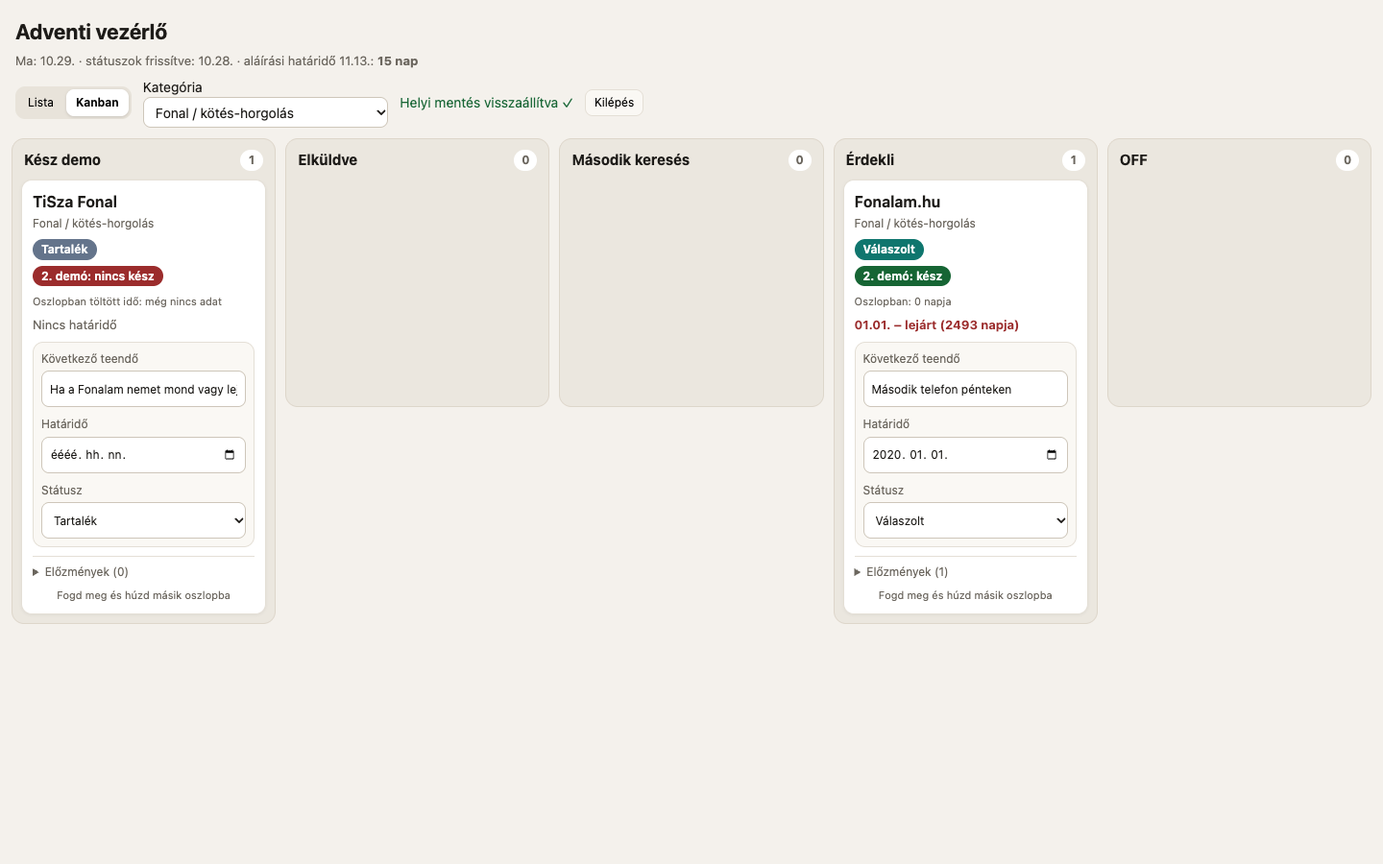
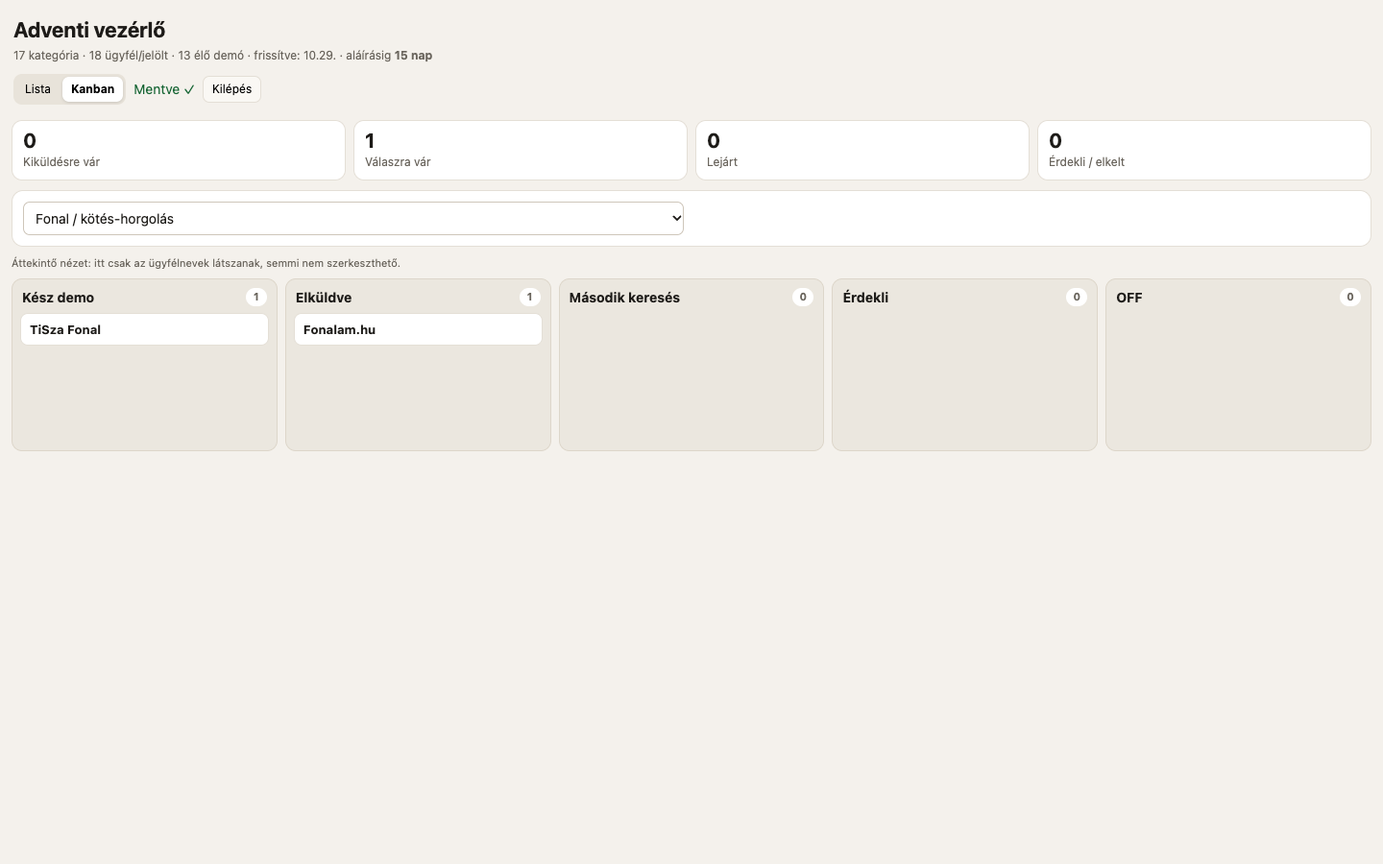
vezerlo: teljes adatlista es kompakt nezet

diff --git a/vezerlo/index.html b/vezerlo/index.html
@@ -6,100 +6,60 @@
 <meta name="robots" content="noindex,nofollow,noarchive">
 <title>Adventi vezérlő</title>
 <style>
-:root{--bg:#f4f1ec;--card:#fff;--ink:#1d1b18;--mut:#6b665e;--line:#e4dfd6;--accent:#9b2c2c;--ok:#166534;--warn:#b45309}
-*{box-sizing:border-box}
-body{margin:0;font:15px/1.45 -apple-system,BlinkMacSystemFont,"Segoe UI",Roboto,sans-serif;background:var(--bg);color:var(--ink)}
-header{padding:18px 16px 8px;max-width:1440px;margin:auto}h1{margin:0;font-size:22px}.meta{color:var(--mut);font-size:13px;margin-top:4px}
-main{max-width:1440px;margin:auto;padding:0 12px 40px}.box{background:var(--card);border:1px solid var(--line);border-radius:14px;padding:14px;margin:12px 0}
-.todo h2,.cat h2{margin:0 0 8px;font-size:16px}.todo ul{margin:0;padding-left:18px}.todo li{margin:4px 0}.urg{color:var(--accent);font-weight:650}
-.cat-head{display:flex;justify-content:space-between;align-items:baseline;gap:8px;flex-wrap:wrap}.sor{color:var(--mut);font-size:13px;margin:2px 0 8px}
-.shop{border-top:1px solid var(--line);padding:13px 0}.shop:first-of-type{border-top:0}.row{display:flex;gap:8px;align-items:center;flex-wrap:wrap}.name{font-weight:650;font-size:16px}
-.badge,.audit{display:inline-block;padding:2px 9px;border-radius:999px;color:#fff;font-size:12px;font-weight:650;white-space:nowrap}.audit.ok{background:var(--ok)}.audit.no{background:var(--accent)}
-.dl{display:grid;grid-template-columns:auto 1fr;gap:3px 10px;font-size:14px;margin-top:7px}.dl dt{color:var(--mut)}.dl dd{margin:0;overflow-wrap:anywhere}a{color:#1f4e8c}
-.controls{display:grid;grid-template-columns:minmax(155px,1fr) minmax(150px,1fr) minmax(180px,1.25fr);gap:9px;margin-top:11px;padding:10px;background:#faf8f4;border:1px solid var(--line);border-radius:11px}
-.control{display:flex;flex-direction:column;gap:4px;font-size:12px;color:var(--mut)}.check{flex-direction:row;align-items:center;color:var(--ink);font-size:14px;padding-top:21px}.check input{width:18px;height:18px;margin:0}
-input[type=date],input[type=text],select{width:100%;font:inherit;color:var(--ink);padding:7px 8px;border:1px solid #cec6ba;border-radius:8px;background:#fff;min-height:38px}
-button{font:inherit;font-size:12px;padding:4px 9px;border:1px solid var(--line);border-radius:8px;background:#faf8f4;cursor:pointer}.tools{display:flex;gap:12px;align-items:center;font-size:14px;margin-top:8px;flex-wrap:wrap}.view-switch{display:flex;gap:3px;padding:3px;background:#e8e3da;border-radius:10px}.view-switch button{border:0;background:transparent;padding:5px 10px}.view-switch button.active{background:#fff;box-shadow:0 1px 3px #0002;font-weight:650}
-.done{opacity:.58}.err{color:var(--accent)}#save{min-height:20px}.saving{color:var(--warn)}.saved{color:var(--ok)}
-.recovery{max-width:1440px;margin:8px auto 0;padding:11px 14px;background:#fff7ed;border:1px solid #f59e0b;border-radius:11px;color:#7c2d12}.recovery button{margin-left:8px;background:#fff}.recovery strong{display:block;margin-bottom:4px}
-.kanban-wrap{overflow-x:auto;padding:3px 0 14px}.kanban{display:grid;grid-template-columns:repeat(5,minmax(235px,1fr));gap:10px;min-width:1215px;align-items:start}.kanban-col{background:#ebe7df;border:1px solid #ddd6ca;border-radius:13px;min-height:280px;padding:9px}.kanban-col.over{background:#ded8cc;outline:2px solid #9b2c2c55}.kanban-head{display:flex;justify-content:space-between;align-items:center;padding:2px 3px 9px;font-weight:700}.count{background:#fff;color:var(--mut);border-radius:999px;min-width:24px;text-align:center;font-size:12px;padding:2px 7px}.kanban-cards{display:flex;flex-direction:column;gap:8px;min-height:220px}.kanban-card{background:#fff;border:1px solid var(--line);border-radius:11px;padding:11px;box-shadow:0 1px 3px #0000000d;cursor:grab}.kanban-card.due-soon{border:2px solid #d97706}.kanban-card.overdue{border:2px solid #b91c1c;background:#fffafa}.kanban-card.dragging{opacity:.38}.kanban-card .name{display:block;margin-bottom:2px}.kanban-card .category{color:var(--mut);font-size:12px;margin-bottom:7px}.kanban-card .deadline{font-size:13px;margin:7px 0}.kanban-card .controls{display:flex;flex-direction:column;padding:8px;margin-top:8px}.kanban-card .audit{margin-top:6px}.drag-hint,.column-age{color:var(--mut);font-size:11px;margin-top:8px}.drag-hint{text-align:center}.history{border-top:1px solid var(--line);margin-top:9px;padding-top:7px;font-size:12px}.history summary{cursor:pointer;color:var(--mut)}.history ul{margin:6px 0 0;padding-left:18px}.history li{margin:3px 0}.filter select{min-width:190px;min-height:32px;padding:4px 8px}
-@media(max-width:620px){.controls{grid-template-columns:1fr 1fr}.control.status{grid-column:1/-1}.dl{grid-template-columns:1fr}.dl dt{margin-top:5px}.check{padding-top:20px}.tools{gap:8px}.kanban{grid-template-columns:repeat(5,82vw);min-width:calc(410vw + 40px)}.kanban-col{scroll-snap-align:start}.kanban-wrap{scroll-snap-type:x mandatory}.kanban-card{cursor:default}}
+:root{--bg:#f4f1ec;--card:#fff;--ink:#1d1b18;--mut:#6b665e;--line:#e4dfd6;--accent:#9b2c2c;--ok:#166534;--warn:#b45309;--blue:#1f4e8c}
+*{box-sizing:border-box}body{margin:0;font:14px/1.4 -apple-system,BlinkMacSystemFont,"Segoe UI",Roboto,sans-serif;background:var(--bg);color:var(--ink)}
+header,main{max-width:1440px;margin:auto}header{padding:16px 14px 6px}main{padding:0 12px 40px}h1{margin:0;font-size:22px}.meta{color:var(--mut);font-size:12px;margin-top:3px}a{color:var(--blue)}button,input,select{font:inherit}
+.tools{display:flex;gap:8px;align-items:center;margin-top:10px;flex-wrap:wrap}.view-switch{display:flex;gap:3px;padding:3px;background:#e8e3da;border-radius:9px}.view-switch button,.plain-button{font-size:12px;padding:5px 9px;border:1px solid var(--line);border-radius:7px;background:#faf8f4;cursor:pointer}.view-switch button{border:0;background:transparent}.view-switch button.active{background:#fff;box-shadow:0 1px 3px #0002;font-weight:700}.save{min-height:18px}.saving{color:var(--warn)}.saved{color:var(--ok)}.err,.urg{color:var(--accent)}.urg{font-weight:700}
+.summary{display:grid;grid-template-columns:repeat(4,minmax(130px,1fr));gap:8px;margin:10px 0}.metric{background:var(--card);border:1px solid var(--line);border-radius:11px;padding:9px 11px}.metric strong{display:block;font-size:21px;line-height:1.1}.metric span{color:var(--mut);font-size:12px}
+.panel{background:var(--card);border:1px solid var(--line);border-radius:12px;padding:11px;margin:9px 0}.panel h2{margin:0 0 7px;font-size:15px}.todo ul{margin:0;padding-left:18px}.todo li{margin:2px 0}
+.filters{display:grid;grid-template-columns:minmax(180px,2fr) repeat(2,minmax(150px,1fr));gap:8px}.filters input,.filters select,.control input,.control select{width:100%;min-height:35px;padding:6px 8px;border:1px solid #cec6ba;border-radius:7px;background:#fff;color:var(--ink)}
+.cat{margin:10px 0}.cat-head{display:flex;align-items:baseline;justify-content:space-between;gap:8px;padding:0 3px}.cat-head h2{font-size:15px;margin:0}.queue{color:var(--mut);font-size:11px;margin:2px 3px 7px}.shop-grid{display:grid;grid-template-columns:repeat(auto-fill,minmax(280px,1fr));gap:7px}.shop{background:var(--card);border:1px solid var(--line);border-radius:10px;padding:9px 10px;min-width:0}.shop.done{opacity:.62}.shop-top{display:flex;align-items:center;gap:6px;min-width:0}.name{font-size:14px;font-weight:750;overflow:hidden;text-overflow:ellipsis;white-space:nowrap}.badge,.flag{display:inline-block;border-radius:999px;padding:2px 7px;color:#fff;font-size:10px;font-weight:700;white-space:nowrap}.shop-top .badge{margin-left:auto}.mini{display:flex;gap:5px;align-items:center;flex-wrap:wrap;color:var(--mut);font-size:11px;margin-top:5px}.mini .missing{color:#9f1239;background:#fff1f2;border-radius:999px;padding:1px 6px}.mini .live{color:var(--ok)}
+details.info{margin-top:6px;border-top:1px solid var(--line);padding-top:6px}details.info>summary{cursor:pointer;color:var(--blue);font-size:12px;list-style:none}details.info>summary::-webkit-details-marker{display:none}.dl{display:grid;grid-template-columns:72px 1fr;gap:3px 7px;font-size:12px;margin:8px 0}.dl dt{color:var(--mut)}.dl dd{margin:0;overflow-wrap:anywhere}.controls{display:grid;grid-template-columns:repeat(2,minmax(120px,1fr));gap:7px;padding-top:8px;border-top:1px solid var(--line)}.control{display:flex;flex-direction:column;gap:3px;color:var(--mut);font-size:11px}.control.status,.control.task{grid-column:1/-1}.control.task input{font-size:12px}.hint{color:var(--mut);font-size:10px;margin-top:4px}
+.empty{background:#ffffff80;border:1px dashed #d7d0c5;border-radius:9px;padding:9px;color:var(--mut);font-size:12px}.recovery{max-width:1416px;margin:7px auto;padding:10px 12px;background:#fff7ed;border:1px solid #f59e0b;border-radius:10px;color:#7c2d12}.recovery strong{display:block}.recovery button{margin:5px 5px 0 0}
+.kanban-wrap{overflow-x:auto;padding-bottom:10px}.kanban{display:grid;grid-template-columns:repeat(5,minmax(180px,1fr));gap:8px;min-width:940px;align-items:start}.kanban-col{background:#ebe7df;border:1px solid #ddd6ca;border-radius:11px;padding:8px;min-height:180px}.kanban-head{display:flex;justify-content:space-between;font-weight:700;padding:1px 2px 7px}.count{background:#fff;color:var(--mut);border-radius:999px;min-width:22px;text-align:center;font-size:11px;padding:1px 6px}.kanban-cards{display:flex;flex-direction:column;gap:5px}.kanban-card{background:#fff;border:1px solid var(--line);border-radius:8px;padding:7px 9px;font-weight:700;font-size:13px;overflow-wrap:anywhere}.kanban-note{color:var(--mut);font-size:11px;margin:0 0 8px}
+@media(max-width:700px){.summary{grid-template-columns:1fr 1fr}.filters{grid-template-columns:1fr}.shop-grid{grid-template-columns:1fr}.kanban{grid-template-columns:repeat(5,82vw);min-width:calc(410vw + 32px)}.kanban-col{scroll-snap-align:start}.kanban-wrap{scroll-snap-type:x mandatory}.dl{grid-template-columns:1fr}.dl dt{margin-top:4px}}
 </style>
 </head>
 <body>
 <header>
  <h1>Adventi vezérlő</h1>
  <div class="meta" id="meta">Betöltés…</div>
- <div class="tools"><div class="view-switch" aria-label="Nézet"><button type="button" id="list-view">Lista</button><button type="button" id="kanban-view">Kanban</button></div><label id="lezart-wrap"><input type="checkbox" id="lezart"> Lezártak mutatása</label><label class="filter" id="filter-wrap" hidden>Kategória <select id="kategoria-szuro"><option value="">Mind</option></select></label><span id="save" aria-live="polite"></span><button type="button" id="logout">Kilépés</button></div>
+ <div class="tools"><div class="view-switch" aria-label="Nézet"><button type="button" id="list-view">Lista</button><button type="button" id="kanban-view">Kanban</button></div><label id="lezart-wrap"><input type="checkbox" id="lezart"> Lezártak</label><span class="save" id="save" aria-live="polite"></span><button type="button" class="plain-button" id="logout">Kilépés</button></div>
 </header>
-<div class="recovery" id="recovery" hidden><strong>Korábbi helyi mentést találtam</strong>A szerver adatai eltérnek a böngészőben megőrzött példánytól. Ez redeploy utáni adatvesztés jele lehet. <button type="button" id="restore-backup">Helyi mentés visszaállítása</button><button type="button" id="dismiss-backup">A szerveradat megtartása</button></div>
+<div class="recovery" id="recovery" hidden><strong>Korábbi helyi mentést találtam</strong>A szerver adatai eltérnek a böngészőben megőrzött példánytól. Ez redeploy utáni adatvesztés jele lehet.<br><button type="button" class="plain-button" id="restore-backup">Helyi mentés visszaállítása</button><button type="button" class="plain-button" id="dismiss-backup">A szerveradat megtartása</button></div>
 <main id="app"></main>
 <script>
 const S={elokeszites:['Előkészítés','#8a8f98'],review:['Dani review-ra vár','#b7791f'],kuldheto:['Küldhető','#2b6cb0'],tartalek:['Tartalék','#64748b'],kikuldve:['Kiküldve','#6b46c1'],valaszolt:['Válaszolt','#0f766e'],foglalt:['Foglalt (igen)','#15803d'],nyert:['Nyert','#166534'],nem:['Nem kéri','#b91c1c'],nem_reagal:['Nem reagál','#9f1239'],lejart:['Lejárt','#9f1239'],kizart:['Kizárt','#475569']};
 const LEZART=new Set(['nem','nem_reagal','lejart','kizart']);
-const KANBAN=[
- {id:'kesz',label:'Kész demo',status:'kuldheto',states:new Set(['elokeszites','review','kuldheto','tartalek'])},
- {id:'elkuldve',label:'Elküldve',status:'kikuldve',states:new Set(['kikuldve'])},
- {id:'masodik',label:'Második keresés',status:'nem_reagal',states:new Set(['nem_reagal','lejart'])},
- {id:'erdekli',label:'Érdekli',status:'valaszolt',states:new Set(['valaszolt','foglalt','nyert'])},
- {id:'off',label:'OFF',status:'nem',states:new Set(['nem','kizart'])}
-];
+const KANBAN=[{label:'Kész demo',states:new Set(['elokeszites','review','kuldheto','tartalek'])},{label:'Elküldve',states:new Set(['kikuldve'])},{label:'Második keresés',states:new Set(['nem_reagal','lejart'])},{label:'Érdekli',states:new Set(['valaszolt','foglalt','nyert'])},{label:'OFF',states:new Set(['nem','kizart'])}];
 const esc=s=>String(s??'').replace(/[&<>"']/g,c=>({'&':'&amp;','<':'&lt;','>':'&gt;','"':'&quot;',"'":'&#39;'}[c]));
 const ma=new Intl.DateTimeFormat('en-CA',{timeZone:'Europe/Budapest'}).format(new Date());
-const nap=(a,b)=>Math.round((Date.parse(a)-Date.parse(b))/864e5);
-const hu=d=>d?d.slice(5,10).replace('-','.')+'.':'';
-const datumido=value=>{if(!value)return '—';const d=new Date(value);return Number.isNaN(d.valueOf())?esc(value):new Intl.DateTimeFormat('hu-HU',{dateStyle:'medium',timeStyle:'short',timeZone:'Europe/Budapest'}).format(d)};
-const BACKUP_KEY='vezerlo-adat-backup-v1';
-let adat,linkek={},audit={demok:{}},view=localStorage.getItem('vezerlo-view')==='kanban'?'kanban':'list',dragId='',pendingBackup=null;
+const nap=(a,b)=>Math.round((Date.parse(a)-Date.parse(b))/864e5);const hu=d=>d?d.slice(5,10).replace('-','.')+'.':'';
+const BACKUP_KEY='vezerlo-adat-backup-v1';let adat,linkek={},audit={demok:{}},view=localStorage.getItem('vezerlo-view')==='kanban'?'kanban':'list',pendingBackup=null;
 function badge(a){const[t,c]=S[a]||[a,'#888'];return `<span class="badge" style="background:${c}">${esc(t)}</span>`}
 function options(selected){return Object.entries(S).map(([v,[label]])=>`<option value="${v}"${v===selected?' selected':''}>${esc(label)}</option>`).join('')}
-function hatSzoveg(b){if(!b.hatarido)return '';const d=nap(b.hatarido,ma);return d<0?`<span class="urg">${hu(b.hatarido)} – lejárt (${-d} napja)</span>`:d===0?`<span class="urg">${hu(b.hatarido)} – ma jár le</span>`:`${hu(b.hatarido)} – még ${d} nap`}
-function deadlineClass(b){if(!b.hatarido||!['kikuldve','nem_reagal'].includes(b.allapot))return '';const d=nap(b.hatarido,ma);return d<0?' overdue':d<=1?' due-soon':''}
-function statusAge(b){const start=b.allapot_datum||(b.allapot==='kikuldve'?b.kikuldve:['valaszolt','foglalt','nyert','nem'].includes(b.allapot)?b.valasz_datum:'');if(!start)return 'Oszlopban töltött idő: még nincs adat';const days=Math.max(0,nap(ma,start.slice(0,10)));return `Oszlopban: ${days} napja`}
-function historyHtml(b){const history=Array.isArray(b.elozmenyek)?b.elozmenyek:[];if(!history.length)return '<details class="history"><summary>Előzmények (0)</summary><div class="meta">Még nincs rögzített státuszváltás.</div></details>';return `<details class="history"><summary>Előzmények (${history.length})</summary><ul>${history.slice(-8).reverse().map(x=>`<li>${datumido(x.datum)}: ${esc(S[x.innen]?.[0]||x.innen||'—')} → <b>${esc(S[x.ide]?.[0]||x.ide)}</b></li>`).join('')}</ul></details>`}
-function teendok(){const t=[];for(const b of adat.boltok){const d=b.hatarido?nap(b.hatarido,ma):null;
- if(b.allapot==='kikuldve'&&d!==null&&d<0)t.push([0,`<span class="urg">${esc(b.bolt)}</span>: lejárt a határidő → jelöld „Nem reagál”-ra`]);
- else if(b.allapot==='kikuldve'&&d===0)t.push([1,`<span class="urg">${esc(b.bolt)}</span>: ma jár le a határidő`]);
- else if(b.allapot==='kikuldve'&&d===1)t.push([2,`${esc(b.bolt)}: holnap jár le a határidő`]);
- else if(b.allapot==='valaszolt')t.push([1,`${esc(b.bolt)}: válaszolt → vidd tovább${b.megjegyzes?' ('+esc(b.megjegyzes)+')':''}`]);
- else if(b.allapot==='kuldheto')t.push([3,`${esc(b.bolt)}: mehet a levél`]);}return t.sort((a,b)=>a[0]-b[0]).map(x=>x[1])}
-function renderList(){const mutat=document.getElementById('lezart').checked;const ah=adat.alairasi_hatarido?nap(adat.alairasi_hatarido,ma):null;
- document.getElementById('meta').innerHTML=`Ma: ${hu(ma)} · státuszok frissítve: ${hu(adat.frissitve)}${ah!==null?` · aláírási határidő ${hu(adat.alairasi_hatarido)}: <b>${ah} nap</b>`:''}`;
- const td=teendok();let h=`<section class="box todo"><h2>Mi a teendő ma?</h2>${td.length?'<ul>'+td.map(x=>`<li>${x}</li>`).join('')+'</ul>':'<div class="meta">Nincs sürgős teendő.</div>'}</section>`;
- for(const k of adat.kategoriak){const bb=adat.boltok.filter(b=>b.kategoria===k.nev);const lat=bb.filter(b=>mutat||!LEZART.has(b.allapot));const al=bb.some(b=>b.allapot==='nyert')?'nyert':bb.some(b=>b.allapot==='foglalt')?'foglalt':bb.some(b=>['kikuldve','valaszolt'].includes(b.allapot))?'kikuldve':null;
-  h+=`<section class="box cat"><div class="cat-head"><h2>${esc(k.nev)}</h2>${al?badge(al):'<span class="meta">szabad</span>'}</div>${k.sor?`<div class="sor">Sorban: ${esc(k.sor)}</div>`:''}`;
-  for(const b of lat){const sl=linkek[b.demo],url=sl?`${location.origin}/${sl}/?bemutato=1`:'',a=audit.demok?.[b.demo];const title=a?.hianyok?.join('; ')||'';
-   h+=`<div class="shop${LEZART.has(b.allapot)?' done':''}"><div class="row"><span class="name">${esc(b.bolt)}</span>${badge(b.allapot)}${b.demo?(a?`<span class="audit ${a.demo2_kesz?'ok':'no'}" title="${esc(title)}">2. demó: ${a.demo2_kesz?'kész':'nincs kész'}</span>`:'<span class="audit no">2. demó: nincs adat</span>'):''}</div><dl class="dl">`+
-   (b.kinek||b.email?`<dt>Kinek</dt><dd>${esc(b.kinek)}${b.email?`${b.kinek?' · ':''}<a href="mailto:${esc(b.email)}">${esc(b.email)}</a>`:''}</dd>`:'')+
-   (url?`<dt>Demó</dt><dd><a href="${esc(url)}" target="_blank" rel="noopener">${esc(url.replace(location.origin,''))}</a> <button data-copy="${esc(url)}">Másolás</button></dd>`:(b.demo?`<dt>Demó</dt><dd class="meta">még nincs kint (kiad.py --uj ${esc(b.demo)})</dd>`:''))+
-   (a?`<dt>Kalendárium frissítve</dt><dd>${datumido(a.frissitve)}</dd>`:'')+
-   (b.kikuldve?`<dt>Kiküldés dátuma</dt><dd>${hu(b.kikuldve)}</dd>`:'')+(b.hatarido?`<dt>Határidő állapota</dt><dd>${hatSzoveg(b)}</dd>`:'')+
-   (b.teendo?`<dt>Teendő</dt><dd>${esc(b.teendo)}</dd>`:'')+(b.megjegyzes?`<dt>Megjegyzés</dt><dd>${esc(b.megjegyzes)}</dd>`:'')+`</dl>
-   <div class="controls"><label class="control check"><input type="checkbox" data-id="${esc(b.id)}" data-field="kikuldve"${b.kikuldve?' checked':''}> Kiküldtem</label><label class="control">Határidő<input type="date" data-id="${esc(b.id)}" data-field="hatarido" value="${esc(b.hatarido)}"></label><label class="control status">Státusz<select data-id="${esc(b.id)}" data-field="allapot">${options(b.allapot)}</select></label></div></div>`}
-  if(!lat.length)h+='<div class="meta">Nincs aktív bolt.</div>';h+='</section>'}
- document.getElementById('app').innerHTML=h}
-function kanbanCard(b){const a=audit.demok?.[b.demo];return `<article class="kanban-card${deadlineClass(b)}" draggable="true" data-drag-id="${esc(b.id)}"><span class="name">${esc(b.bolt)}</span><div class="category">${esc(b.kategoria)}</div>${badge(b.allapot)}${a?`<br><span class="audit ${a.demo2_kesz?'ok':'no'}">2. demó: ${a.demo2_kesz?'kész':'nincs kész'}</span>`:''}<div class="column-age">${statusAge(b)}</div><div class="deadline">${b.hatarido?hatSzoveg(b):'<span class="meta">Nincs határidő</span>'}</div><div class="controls"><label class="control">Következő teendő<input type="text" maxlength="500" data-id="${esc(b.id)}" data-field="teendo" value="${esc(b.teendo)}" placeholder="Pl. telefonálni pénteken"></label><label class="control">Határidő<input type="date" data-id="${esc(b.id)}" data-field="hatarido" value="${esc(b.hatarido)}"></label><label class="control status">Státusz<select data-id="${esc(b.id)}" data-field="allapot">${options(b.allapot)}</select></label></div>${historyHtml(b)}<div class="drag-hint">Fogd meg és húzd másik oszlopba</div></article>`}
-function renderKanban(){const ah=adat.alairasi_hatarido?nap(adat.alairasi_hatarido,ma):null,filter=document.getElementById('kategoria-szuro').value;document.getElementById('meta').innerHTML=`Ma: ${hu(ma)} · státuszok frissítve: ${hu(adat.frissitve)}${ah!==null?` · aláírási határidő ${hu(adat.alairasi_hatarido)}: <b>${ah} nap</b>`:''}`;let h='<div class="kanban-wrap"><div class="kanban">';for(const col of KANBAN){const bb=adat.boltok.filter(b=>col.states.has(b.allapot)&&(!filter||b.kategoria===filter));h+=`<section class="kanban-col" data-drop-status="${col.status}"><div class="kanban-head"><span>${col.label}</span><span class="count">${bb.length}</span></div><div class="kanban-cards">${bb.map(kanbanCard).join('')}</div></section>`}h+='</div></div>';document.getElementById('app').innerHTML=h}
-function render(){document.getElementById('list-view').classList.toggle('active',view==='list');document.getElementById('kanban-view').classList.toggle('active',view==='kanban');document.getElementById('lezart-wrap').hidden=view==='kanban';document.getElementById('filter-wrap').hidden=view!=='kanban';view==='kanban'?renderKanban():renderList()}
-function fillCategoryFilter(){const select=document.getElementById('kategoria-szuro'),saved=localStorage.getItem('vezerlo-kategoria')||'';select.innerHTML='<option value="">Mind</option>'+adat.kategoriak.map(k=>`<option value="${esc(k.nev)}">${esc(k.nev)}</option>`).join('');select.value=[...select.options].some(x=>x.value===saved)?saved:''}
+function deadlineText(b){if(!b.hatarido)return 'nincs határidő';const d=nap(b.hatarido,ma);return d<0?`lejárt ${-d} napja`:d===0?'ma jár le':d===1?'holnap jár le':`${d} nap van hátra`}
+function teendok(){const t=[];for(const b of adat.boltok){const d=b.hatarido?nap(b.hatarido,ma):null;if(b.allapot==='kikuldve'&&d!==null&&d<0)t.push([0,`<span class="urg">${esc(b.bolt)}</span>: lejárt a határidő`]);else if(b.allapot==='kikuldve'&&d===0)t.push([1,`<span class="urg">${esc(b.bolt)}</span>: ma jár le`]);else if(b.allapot==='kikuldve'&&d===1)t.push([2,`${esc(b.bolt)}: holnap jár le`]);else if(b.allapot==='valaszolt')t.push([1,`${esc(b.bolt)}: válaszolt → vidd tovább`]);else if(b.allapot==='kuldheto')t.push([3,`${esc(b.bolt)}: mehet a levél`])}return t.sort((a,b)=>a[0]-b[0]).map(x=>x[1])}
+function metrics(){const b=adat.boltok;return [['Kiküldésre vár',b.filter(x=>x.allapot==='kuldheto').length],['Válaszra vár',b.filter(x=>x.allapot==='kikuldve').length],['Lejárt',b.filter(x=>['nem_reagal','lejart'].includes(x.allapot)||(x.allapot==='kikuldve'&&x.hatarido&&nap(x.hatarido,ma)<0)).length],['Érdekli / elkelt',b.filter(x=>['valaszolt','foglalt','nyert'].includes(x.allapot)).length]]}
+function headerMeta(){const ah=adat.alairasi_hatarido?nap(adat.alairasi_hatarido,ma):null;document.getElementById('meta').innerHTML=`${adat.kategoriak.length} kategória · ${adat.boltok.length} ügyfél/jelölt · ${Object.keys(linkek).length} élő demó · frissítve: ${hu(adat.frissitve)}${ah!==null?` · aláírásig <b>${ah} nap</b>`:''}`}
+function filtersHtml(){return `<section class="panel filters"><input id="kereses" type="search" placeholder="Keresés név, e-mail vagy kapcsolattartó alapján" value="${esc(localStorage.getItem('vezerlo-kereses')||'')}"><select id="kategoria-szuro"><option value="">Minden kategória</option>${adat.kategoriak.map(k=>`<option value="${esc(k.nev)}">${esc(k.nev)}</option>`).join('')}</select><select id="allapot-szuro"><option value="">Minden státusz</option>${Object.entries(S).map(([v,[l]])=>`<option value="${v}">${esc(l)}</option>`).join('')}</select></section>`}
+function matches(b){const q=(document.getElementById('kereses')?.value||'').trim().toLocaleLowerCase('hu'),k=document.getElementById('kategoria-szuro')?.value||'',s=document.getElementById('allapot-szuro')?.value||'';const hay=[b.bolt,b.kategoria,b.kinek,b.email,b.telefon].join(' ').toLocaleLowerCase('hu');return(!q||hay.includes(q))&&(!k||b.kategoria===k)&&(!s||b.allapot===s)}
+function shopCard(b){const slug=linkek[b.demo],url=slug?`${location.origin}/${slug}/?bemutato=1`:'',a=audit.demok?.[b.demo],missing=[];if(!b.kinek)missing.push('nincs név');if(!b.email)missing.push('nincs e-mail');if(b.demo&&!slug)missing.push('nincs élő link');return `<article class="shop${LEZART.has(b.allapot)?' done':''}"><div class="shop-top"><span class="name" title="${esc(b.bolt)}">${esc(b.bolt)}</span>${badge(b.allapot)}</div><div class="mini">${url?'<span class="live">● élő demó</span>':b.demo?'<span>○ helyi demó</span>':'<span>nincs demó</span>'}${b.kikuldve?`<span>· kiküldve ${hu(b.kikuldve)}</span>`:''}${b.hatarido?`<span class="${nap(b.hatarido,ma)<0?'urg':''}">· ${esc(deadlineText(b))}</span>`:''}${missing.map(x=>`<span class="missing">${esc(x)}</span>`).join('')}</div><details class="info"><summary>Részletek és szerkesztés ▾</summary><dl class="dl"><dt>Kategória</dt><dd>${esc(b.kategoria)}</dd><dt>Kinek</dt><dd>${esc(b.kinek||'—')}</dd><dt>E-mail</dt><dd>${b.email?`<a href="mailto:${esc(b.email)}">${esc(b.email)}</a>`:'—'}</dd>${b.telefon?`<dt>Telefon</dt><dd>${esc(b.telefon)}</dd>`:''}${b.kapcsolat_minoseg?`<dt>Elérés</dt><dd>${esc(b.kapcsolat_minoseg)}</dd>`:''}${url?`<dt>Demó</dt><dd><a href="${esc(url)}" target="_blank" rel="noopener">Megnyitás</a> · <button class="plain-button" data-copy="${esc(url)}">Link másolása</button></dd>`:b.demo?`<dt>Demó</dt><dd>Helyben kész, még nincs élő link</dd>`:''}${a?`<dt>Forrás</dt><dd>${new Date(a.frissitve).toLocaleString('hu-HU')}</dd>`:''}${b.teendo?`<dt>Teendő</dt><dd>${esc(b.teendo)}</dd>`:''}${b.megjegyzes?`<dt>Megjegyzés</dt><dd>${esc(b.megjegyzes)}</dd>`:''}</dl><div class="controls"><label class="control">Kiküldés dátuma<input type="date" data-id="${esc(b.id)}" data-field="kikuldve" value="${esc(b.kikuldve)}"></label><label class="control">Határidő<input type="date" data-id="${esc(b.id)}" data-field="hatarido" value="${esc(b.hatarido)}"></label><label class="control status">Státusz<select data-id="${esc(b.id)}" data-field="allapot">${options(b.allapot)}</select></label><label class="control task">Következő teendő<input type="text" maxlength="500" data-id="${esc(b.id)}" data-field="teendo" value="${esc(b.teendo)}"></label></div><div class="hint">A kiküldési dátum módosításakor a 3 napos, hétvégét kerülő határidő automatikusan újraszámolódik.</div></details></article>`}
+function renderList(){const td=teendok(),showClosed=document.getElementById('lezart').checked;let h=`<div class="summary">${metrics().map(([l,n])=>`<div class="metric"><strong>${n}</strong><span>${l}</span></div>`).join('')}</div><section class="panel todo"><h2>Mai teendők</h2>${td.length?`<ul>${td.map(x=>`<li>${x}</li>`).join('')}</ul>`:'<div class="meta">Nincs sürgős teendő.</div>'}</section>${filtersHtml()}<div id="categories"></div>`;document.getElementById('app').innerHTML=h;document.getElementById('kategoria-szuro').value=localStorage.getItem('vezerlo-kategoria')||'';document.getElementById('allapot-szuro').value=localStorage.getItem('vezerlo-allapot')||'';renderCategories(showClosed)}
+function renderCategories(showClosed=document.getElementById('lezart').checked){const root=document.getElementById('categories');if(!root)return;let h='';for(const k of adat.kategoriak){let shops=adat.boltok.filter(b=>b.kategoria===k.nev&&matches(b)&&(showClosed||!LEZART.has(b.allapot)));if(!shops.length&&(document.getElementById('kereses').value||document.getElementById('kategoria-szuro').value||document.getElementById('allapot-szuro').value))continue;h+=`<section class="cat"><div class="cat-head"><h2>${esc(k.nev)}</h2><span class="meta">${shops.length} ügyfél</span></div>${k.sor?`<div class="queue">Sorban: ${esc(k.sor)}</div>`:''}<div class="shop-grid">${shops.length?shops.map(shopCard).join(''):'<div class="empty">Még nincs rögzített ügyfél vagy demó ebben a kategóriában.</div>'}</div></section>`}root.innerHTML=h||'<section class="panel meta">Nincs találat a szűrésre.</section>'}
+function renderKanban(){const filter=localStorage.getItem('vezerlo-kategoria')||'';let h=`<div class="summary">${metrics().map(([l,n])=>`<div class="metric"><strong>${n}</strong><span>${l}</span></div>`).join('')}</div><section class="panel filters"><select id="kategoria-szuro"><option value="">Minden kategória</option>${adat.kategoriak.map(k=>`<option value="${esc(k.nev)}">${esc(k.nev)}</option>`).join('')}</select></section><p class="kanban-note">Áttekintő nézet: itt csak az ügyfélnevek látszanak, semmi nem szerkeszthető.</p><div class="kanban-wrap"><div class="kanban">`;for(const col of KANBAN){const shops=adat.boltok.filter(b=>col.states.has(b.allapot)&&(!filter||b.kategoria===filter));h+=`<section class="kanban-col"><div class="kanban-head"><span>${col.label}</span><span class="count">${shops.length}</span></div><div class="kanban-cards">${shops.map(b=>`<div class="kanban-card">${esc(b.bolt)}</div>`).join('')}</div></section>`}h+='</div></div>';document.getElementById('app').innerHTML=h;document.getElementById('kategoria-szuro').value=filter}
+function render(){headerMeta();document.getElementById('list-view').classList.toggle('active',view==='list');document.getElementById('kanban-view').classList.toggle('active',view==='kanban');document.getElementById('lezart-wrap').hidden=view==='kanban';view==='kanban'?renderKanban():renderList()}
 function setView(next){view=next;localStorage.setItem('vezerlo-view',view);render()}
 function tracked(data){return JSON.stringify((data?.boltok||[]).map(b=>[b.id,b.allapot,b.kikuldve||'',b.hatarido||'',b.teendo||'']))}
 function backup(data){localStorage.setItem(BACKUP_KEY,JSON.stringify({mentve:new Date().toISOString(),adat:data}))}
 function checkBackup(server){try{const saved=JSON.parse(localStorage.getItem(BACKUP_KEY)||'null');if(saved?.adat&&tracked(saved.adat)!==tracked(server)){pendingBackup=saved;document.getElementById('recovery').hidden=false}else backup(server)}catch{backup(server)}}
-async function restoreBackup(){if(!pendingBackup)return;const out=document.getElementById('save'),button=document.getElementById('restore-backup');button.disabled=true;out.className='saving';out.textContent='Helyi mentés visszaállítása…';try{for(const old of pendingBackup.adat.boltok||[]){const current=adat.boltok.find(b=>b.id===old.id);if(!current||tracked({boltok:[current]})===tracked({boltok:[old]}))continue;const r=await fetch('/api/vezerlo/adat',{method:'PATCH',headers:{'Content-Type':'application/json'},body:JSON.stringify({id:old.id,allapot:old.allapot,kikuldve:old.kikuldve||'',hatarido:old.hatarido||'',teendo:old.teendo||''})});const j=await r.json();if(!r.ok)throw new Error(j.hiba||`Nem állítható vissza: ${old.bolt}`);adat=j}pendingBackup=null;document.getElementById('recovery').hidden=true;backup(adat);render();out.className='saved';out.textContent='Helyi mentés visszaállítva ✓'}catch(e){out.className='err';out.textContent=e.message}finally{button.disabled=false}}
-async function save(id,changes){const out=document.getElementById('save');out.className='saving';out.textContent='Mentés…';document.querySelectorAll('[data-field]').forEach(x=>x.disabled=true);
- try{const r=await fetch('/api/vezerlo/adat',{method:'PATCH',headers:{'Content-Type':'application/json'},body:JSON.stringify({id,...changes})});if(r.redirected){location.href='/belepes/';return}const j=await r.json();if(!r.ok)throw new Error(j.hiba||'Mentési hiba');adat=j;if(!pendingBackup)backup(adat);render();out.className='saved';out.textContent='Mentve ✓';setTimeout(()=>out.textContent='',1800)}catch(e){out.className='err';out.textContent=e.message;render()}finally{document.querySelectorAll('[data-field]').forEach(x=>x.disabled=false)}}
-document.addEventListener('click',e=>{const u=e.target.dataset?.copy;if(u)navigator.clipboard.writeText(u).then(()=>{e.target.textContent='Másolva';setTimeout(()=>e.target.textContent='Másolás',1500)})});
-document.addEventListener('change',e=>{const {id,field}=e.target.dataset||{};if(!id||!field)return;save(id,{[field]:field==='kikuldve'?e.target.checked:e.target.value})});
-document.addEventListener('dragstart',e=>{const card=e.target.closest?.('[data-drag-id]');if(!card)return;dragId=card.dataset.dragId;card.classList.add('dragging');e.dataTransfer.effectAllowed='move';e.dataTransfer.setData('text/plain',dragId)});
-document.addEventListener('dragend',e=>{e.target.closest?.('[data-drag-id]')?.classList.remove('dragging');document.querySelectorAll('.kanban-col').forEach(x=>x.classList.remove('over'));dragId=''});
-document.addEventListener('dragover',e=>{const col=e.target.closest?.('[data-drop-status]');if(!col)return;e.preventDefault();e.dataTransfer.dropEffect='move';document.querySelectorAll('.kanban-col').forEach(x=>x.classList.toggle('over',x===col))});
-document.addEventListener('dragleave',e=>{const col=e.target.closest?.('[data-drop-status]');if(col&&!col.contains(e.relatedTarget))col.classList.remove('over')});
-document.addEventListener('drop',e=>{const col=e.target.closest?.('[data-drop-status]');if(!col)return;e.preventDefault();const id=dragId||e.dataTransfer.getData('text/plain');document.querySelectorAll('.kanban-col').forEach(x=>x.classList.remove('over'));const bolt=adat.boltok.find(b=>b.id===id);if(id&&bolt&&bolt.allapot!==col.dataset.dropStatus)save(id,{allapot:col.dataset.dropStatus})});
-document.getElementById('list-view').addEventListener('click',()=>setView('list'));document.getElementById('kanban-view').addEventListener('click',()=>setView('kanban'));document.getElementById('lezart').addEventListener('change',render);document.getElementById('kategoria-szuro').addEventListener('change',e=>{localStorage.setItem('vezerlo-kategoria',e.target.value);render()});document.getElementById('logout').addEventListener('click',()=>{document.cookie='vezerlo=; Path=/; Max-Age=0';location.href='/belepes/'});
-document.getElementById('restore-backup').addEventListener('click',restoreBackup);document.getElementById('dismiss-backup').addEventListener('click',()=>{pendingBackup=null;document.getElementById('recovery').hidden=true;backup(adat)});
-Promise.all([fetch('/api/vezerlo/adat',{cache:'no-store'}).then(r=>{if(!r.ok||r.redirected){location.href='/belepes/';throw new Error('Nincs belépve')}return r.json()}),fetch('kiadas.json',{cache:'no-store'}).then(r=>r.ok?r.json():{demok:[]}).catch(()=>({demok:[]})),fetch('demo-audit.json',{cache:'no-store'}).then(r=>r.ok?r.json():{demok:{}}).catch(()=>({demok:{}}))])
- .then(([a,k,d])=>{adat=a;audit=d;for(const x of k.demok)linkek[x.demo]=x.slug;checkBackup(adat);fillCategoryFilter();render()}).catch(e=>{document.getElementById('app').innerHTML=`<p class="err">Nem sikerült betölteni: ${esc(e.message)}</p>`});
+async function restoreBackup(){if(!pendingBackup)return;const out=document.getElementById('save'),button=document.getElementById('restore-backup');button.disabled=true;out.className='save saving';out.textContent='Helyi mentés visszaállítása…';try{for(const old of pendingBackup.adat.boltok||[]){const current=adat.boltok.find(b=>b.id===old.id);if(!current||tracked({boltok:[current]})===tracked({boltok:[old]}))continue;const r=await fetch('/api/vezerlo/adat',{method:'PATCH',headers:{'Content-Type':'application/json'},body:JSON.stringify({id:old.id,allapot:old.allapot,kikuldve:old.kikuldve||'',hatarido:old.hatarido||'',teendo:old.teendo||''})});const j=await r.json();if(!r.ok)throw new Error(j.hiba||`Nem állítható vissza: ${old.bolt}`);adat=j}pendingBackup=null;document.getElementById('recovery').hidden=true;backup(adat);render();out.className='save saved';out.textContent='Helyi mentés visszaállítva ✓'}catch(e){out.className='save err';out.textContent=e.message}finally{button.disabled=false}}
+async function save(id,changes){const out=document.getElementById('save');out.className='save saving';out.textContent='Mentés…';document.querySelectorAll('[data-field]').forEach(x=>x.disabled=true);try{const r=await fetch('/api/vezerlo/adat',{method:'PATCH',headers:{'Content-Type':'application/json'},body:JSON.stringify({id,...changes})});if(r.redirected){location.href='/belepes/';return}const j=await r.json();if(!r.ok)throw new Error(j.hiba||'Mentési hiba');adat=j;if(!pendingBackup)backup(adat);render();out.className='save saved';out.textContent='Mentve ✓';setTimeout(()=>out.textContent='',1800)}catch(e){out.className='save err';out.textContent=e.message;render()}finally{document.querySelectorAll('[data-field]').forEach(x=>x.disabled=false)}}
+document.addEventListener('click',e=>{const u=e.target.dataset?.copy;if(u)navigator.clipboard.writeText(u).then(()=>{e.target.textContent='Másolva';setTimeout(()=>e.target.textContent='Link másolása',1500)})});
+document.addEventListener('change',e=>{const{id,field}=e.target.dataset||{};if(id&&field)return save(id,{[field]:e.target.value});if(e.target.id==='kategoria-szuro'){localStorage.setItem('vezerlo-kategoria',e.target.value);view==='kanban'?renderKanban():renderCategories()}if(e.target.id==='allapot-szuro'){localStorage.setItem('vezerlo-allapot',e.target.value);renderCategories()}if(e.target.id==='lezart')renderList()});
+document.addEventListener('input',e=>{if(e.target.id==='kereses'){localStorage.setItem('vezerlo-kereses',e.target.value);renderCategories()}});
+document.getElementById('list-view').addEventListener('click',()=>setView('list'));document.getElementById('kanban-view').addEventListener('click',()=>setView('kanban'));document.getElementById('logout').addEventListener('click',()=>{document.cookie='vezerlo=; Path=/; Max-Age=0';location.href='/belepes/'});document.getElementById('restore-backup').addEventListener('click',restoreBackup);document.getElementById('dismiss-backup').addEventListener('click',()=>{pendingBackup=null;document.getElementById('recovery').hidden=true;backup(adat)});
+Promise.all([fetch('/api/vezerlo/adat',{cache:'no-store'}).then(r=>{if(!r.ok||r.redirected){location.href='/belepes/';throw new Error('Nincs belépve')}return r.json()}),fetch('kiadas.json',{cache:'no-store'}).then(r=>r.ok?r.json():{demok:[]}).catch(()=>({demok:[]})),fetch('demo-audit.json',{cache:'no-store'}).then(r=>r.ok?r.json():{demok:{}}).catch(()=>({demok:{}}))]).then(([a,k,d])=>{adat=a;audit=d;for(const x of k.demok)linkek[x.demo]=x.slug;checkBackup(adat);render()}).catch(e=>{document.getElementById('app').innerHTML=`<p class="err">Nem sikerült betölteni: ${esc(e.message)}</p>`});
 </script>
 </body>
 </html>

diff --git a/vezerlo-api.py b/vezerlo-api.py
@@ -19,12 +19,36 @@ ALLAPOTOK = {
     "foglalt", "nyert", "nem", "nem_reagal", "lejart", "kizart",
 }
 VALASZ_ALLAPOTOK = {"valaszolt", "foglalt", "nyert", "nem"}
+DINAMIKUS_BOLT_MEZOK = {
+    "allapot", "kikuldve", "hatarido", "valasz_datum", "teendo",
+    "allapot_datum", "elozmenyek",
+}
 
 
 def init_data():
     DATA.parent.mkdir(parents=True, exist_ok=True)
     if not DATA.exists():
         shutil.copy2(SEED, DATA)
+        return
+
+    # A seed a központi ügyfél- és kontaktadat-forrás. Friss deploynál az új
+    # boltok/kategóriák bekerülnek, a /data-ban vezetett értékesítési állapot,
+    # dátumok és előzmények viszont változatlanul megmaradnak.
+    seed = json.loads(SEED.read_text("utf-8"))
+    live = json.loads(DATA.read_text("utf-8"))
+    current = {b.get("id"): b for b in live.get("boltok", [])}
+    merged_shops = []
+    for base in seed.get("boltok", []):
+        merged = dict(base)
+        old = current.get(base.get("id"), {})
+        for key in DINAMIKUS_BOLT_MEZOK:
+            if key in old:
+                merged[key] = old[key]
+        merged_shops.append(merged)
+    seed["boltok"] = merged_shops
+    seed["frissitve"] = live.get("frissitve", seed.get("frissitve"))
+    if seed != live:
+        save_data(seed)
 
 
 def load_data():
@@ -46,8 +70,8 @@ def save_data(adat):
             os.unlink(name)
 
 
-def default_deadline(today):
-    deadline = today + timedelta(days=3)
+def default_deadline(sent_date):
+    deadline = sent_date + timedelta(days=3)
     while deadline.weekday() >= 5:
         deadline += timedelta(days=1)
     return deadline.isoformat()
@@ -132,6 +156,11 @@ class Handler(BaseHTTPRequestHandler):
                 elif isinstance(sent, str):
                     try:
                         bolt["kikuldve"] = valid_date(sent)
+                        # A kézzel javított kiküldési dátumhoz tartozó határidő
+                        # is automatikusan újraszámolódik. Üres dátum törli azt.
+                        bolt["hatarido"] = default_deadline(date.fromisoformat(sent)) if sent else ""
+                        if sent and bolt.get("allapot") in {"elokeszites", "review", "kuldheto", "tartalek"}:
+                            bolt["allapot"] = "kikuldve"
                     except ValueError:
                         return self.send_json(400, {"hiba": "Érvénytelen kiküldési dátum."})
                 else:

diff --git a/README.md b/README.md
@@ -38,11 +38,15 @@ a címeket csak az adott bolt tulajdonosa kapja meg, és elutasítás után a de
 és jóváhagyott képek kellenek.
 
 ## Vezérlő: `/vezerlo` (jelszavas)
-A felületen közvetlenül jelölhető a kiküldés, módosítható a határidő és a státusz. A Lista mellett Kanban nézet is választható a Kész demo, Elküldve, Második keresés, Érdekli és OFF oszlopokkal. A Kanban-kártyák áthúzhatók, kategóriára szűrhetők, és közvetlenül szerkeszthető rajtuk a következő teendő, a határidő és a részletes státusz. A rendszer kiemeli a sürgős/lejárt kártyákat, mutatja az oszlopban töltött napokat, és a mostantól végzett státuszváltások előzményeit is naplózza. Minden sikeres mentésről böngészőbeli biztonsági másolat is készül; ha a szerver egy redeploy után régebbi adatokkal indul, a felület felajánlja ennek visszaállítását. A változásokat a konténer belső API-ja a `/data/adat.json` fájlba menti. Az első induláskor a `vezerlo/adat.json` az alapadat.
+A `vezerlo/adat.json` az ügyfél-, kategória- és kontaktadatok központi forrása. Deploykor a belső API ebből hozzáadja az új kategóriákat és boltokat, illetve frissíti a statikus kontaktadatokat, de a `/data/adat.json` fájlban már vezetett státuszokat, kiküldési és határidő-dátumokat, teendőket és előzményeket megőrzi.
+
+A Lista kompakt ügyfélkártyákat, keresést, kategória- és státuszszűrést, valamint négy gyors összesítőt mutat. A részletek kinyitása után szerkeszthető a kiküldés dátuma, a határidő, a státusz és a következő teendő. A kiküldési dátum módosításakor a háromnapos, hétvégét kerülő határidő automatikusan újraszámolódik. A Kanban kizárólag áttekintő nézet: az öt oszlopban csak az ügyfélnevek jelennek meg, ott nincs szerkesztés vagy áthúzás.
+
+Minden sikeres mentésről böngészőbeli biztonsági másolat is készül; ha a szerver egy redeploy után régebbi adatokkal indul, a felület felajánlja ennek visszaállítását. A változásokat a konténer belső API-ja a `/data/adat.json` fájlba menti. Az első induláskor a `vezerlo/adat.json` az alapadat.
 
 **Kötelező Coolify-beállítás az adatok tartós megőrzéséhez:** Persistent Storage, célútvonal: `/data`. A Dockerfile `VOLUME /data` deklarációja helyben jelzi az írható adatkönyvtárat, de a redeploy utáni megőrzést a Coolify névvel kezelt tárhelye biztosítja.
 
-A vezérlő mutatja a demó forrásának utolsó módosítását és a második körös auditot is. Ezt a `scripts/demo-audit.py` készíti a `vezerlo/demo-audit.json` fájlba; a `kiad.py` minden kiadás előtt automatikusan frissíti.
+A vezérlő mutatja a demó forrásának utolsó módosítását is. Ezt a `scripts/demo-audit.py` készíti a `vezerlo/demo-audit.json` fájlba; a `kiad.py` minden kiadás előtt automatikusan frissíti.
 
 Parancssorból továbbra is használható:
 ```sh
